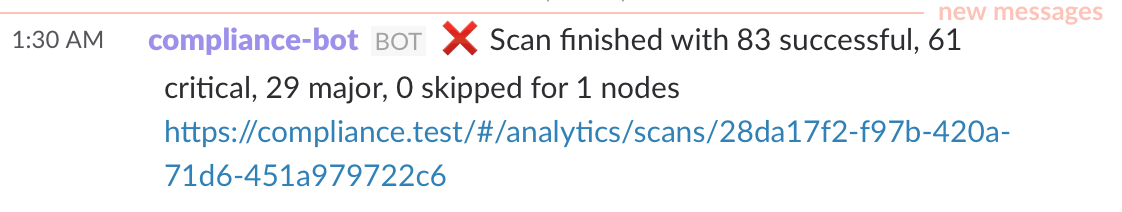
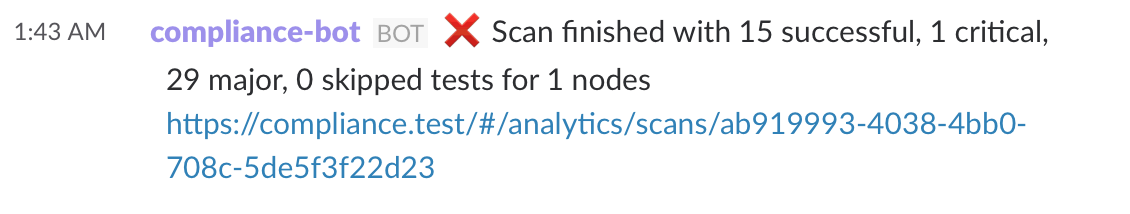
updates

diff --git a/cc-slack-bot.js b/cc-slack-bot.js
@@ -115,7 +115,7 @@ function genMessage(scan) {
       scan.complianceSummary.success + ' successful, ' +
       scan.complianceSummary.critical + ' critical, ' +
       scan.complianceSummary.major + ' major, ' +
-      scan.complianceSummary.skipped + ' skipped for ' + scan.nodeCount + ' nodes';
+      scan.complianceSummary.skipped + ' skipped tests for ' + scan.nodeCount + ' nodes';
 
   if (scan.failedCount > 0) {
     msg += ' ' + scan.failedCount + 'Unreachable';

diff --git a/README.md b/README.md
@@ -8,6 +8,10 @@ This projects implements a Slack Bot for Chef Compliance. It polls the [Complian
 COMPLIANCE_SERVER=https://compliance.test SLACK_CHANNEL=chris-rock-test COMPLIANCE_ORGS=admin COMPLIANCE_TOKEN='eyJ...ozg' node cc-slack-bot.js
 ```
 
+## Messages
+
+Once everything is setup, you'll recieve a message for every scan with the results:
+
 ![Slack Message](./slack_cc_bot.png)
 
 ## References
